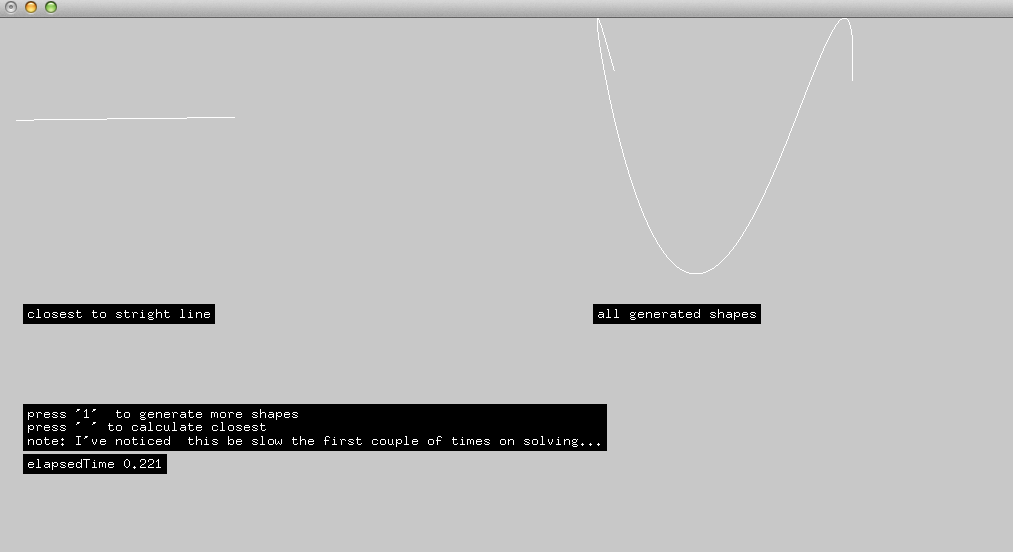
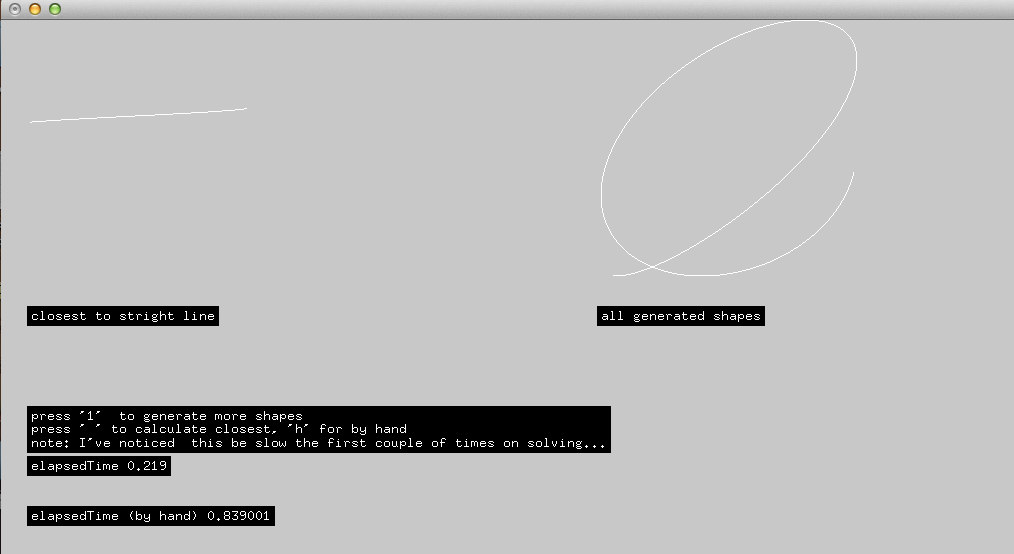
some updates for by hand comparison

diff --git a/src/testApp.cpp b/src/testApp.cpp
@@ -92,7 +92,7 @@ void testApp::draw(){
     ofDrawBitmapStringHighlight("all generated shapes", ofPoint(600,300));
     
 
-    ofDrawBitmapStringHighlight("press '1'  to generate more shapes\npress ' ' to calculate closest\nnote: I've noticed  this be slow the first couple of times on solving...", ofPoint(30,400));
+    ofDrawBitmapStringHighlight("press '1'  to generate more shapes\npress ' ' to calculate closest, 'h' for by hand\nnote: I've noticed  this be slow the first couple of times on solving...", ofPoint(30,400));
     
     
     ofDrawBitmapStringHighlight("elapsedTime " + ofToString(elapsedTime), ofPoint(30,450));
